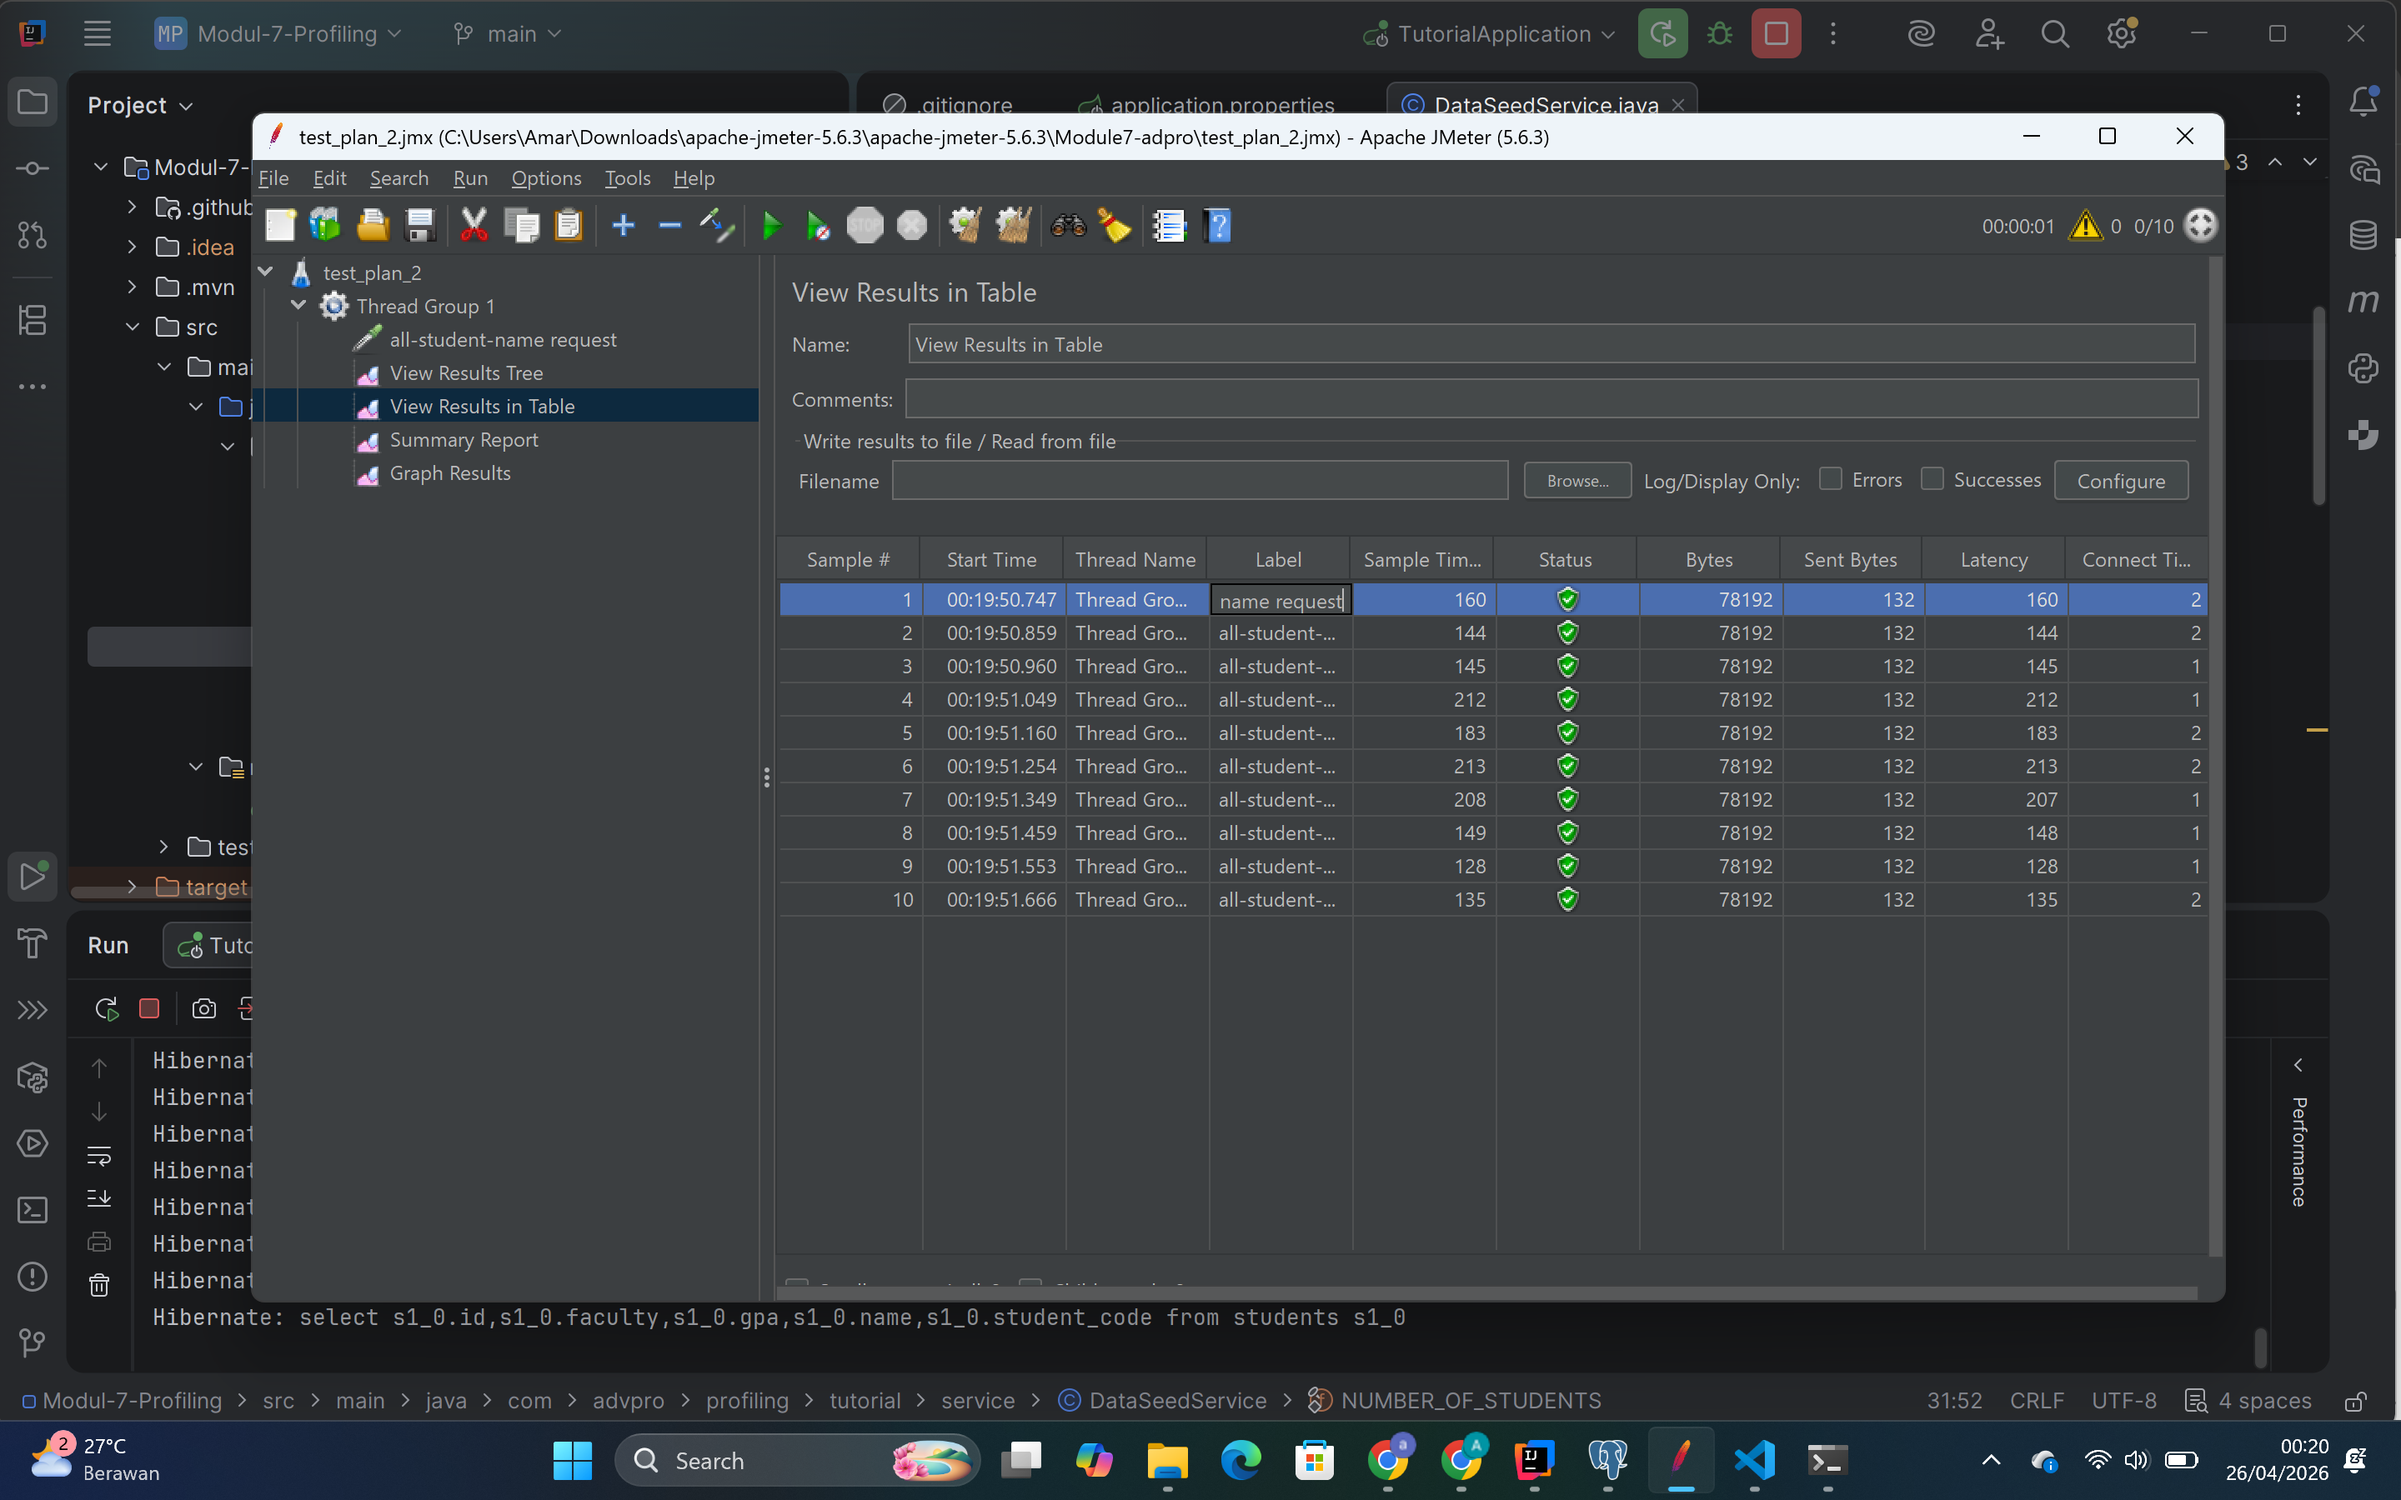
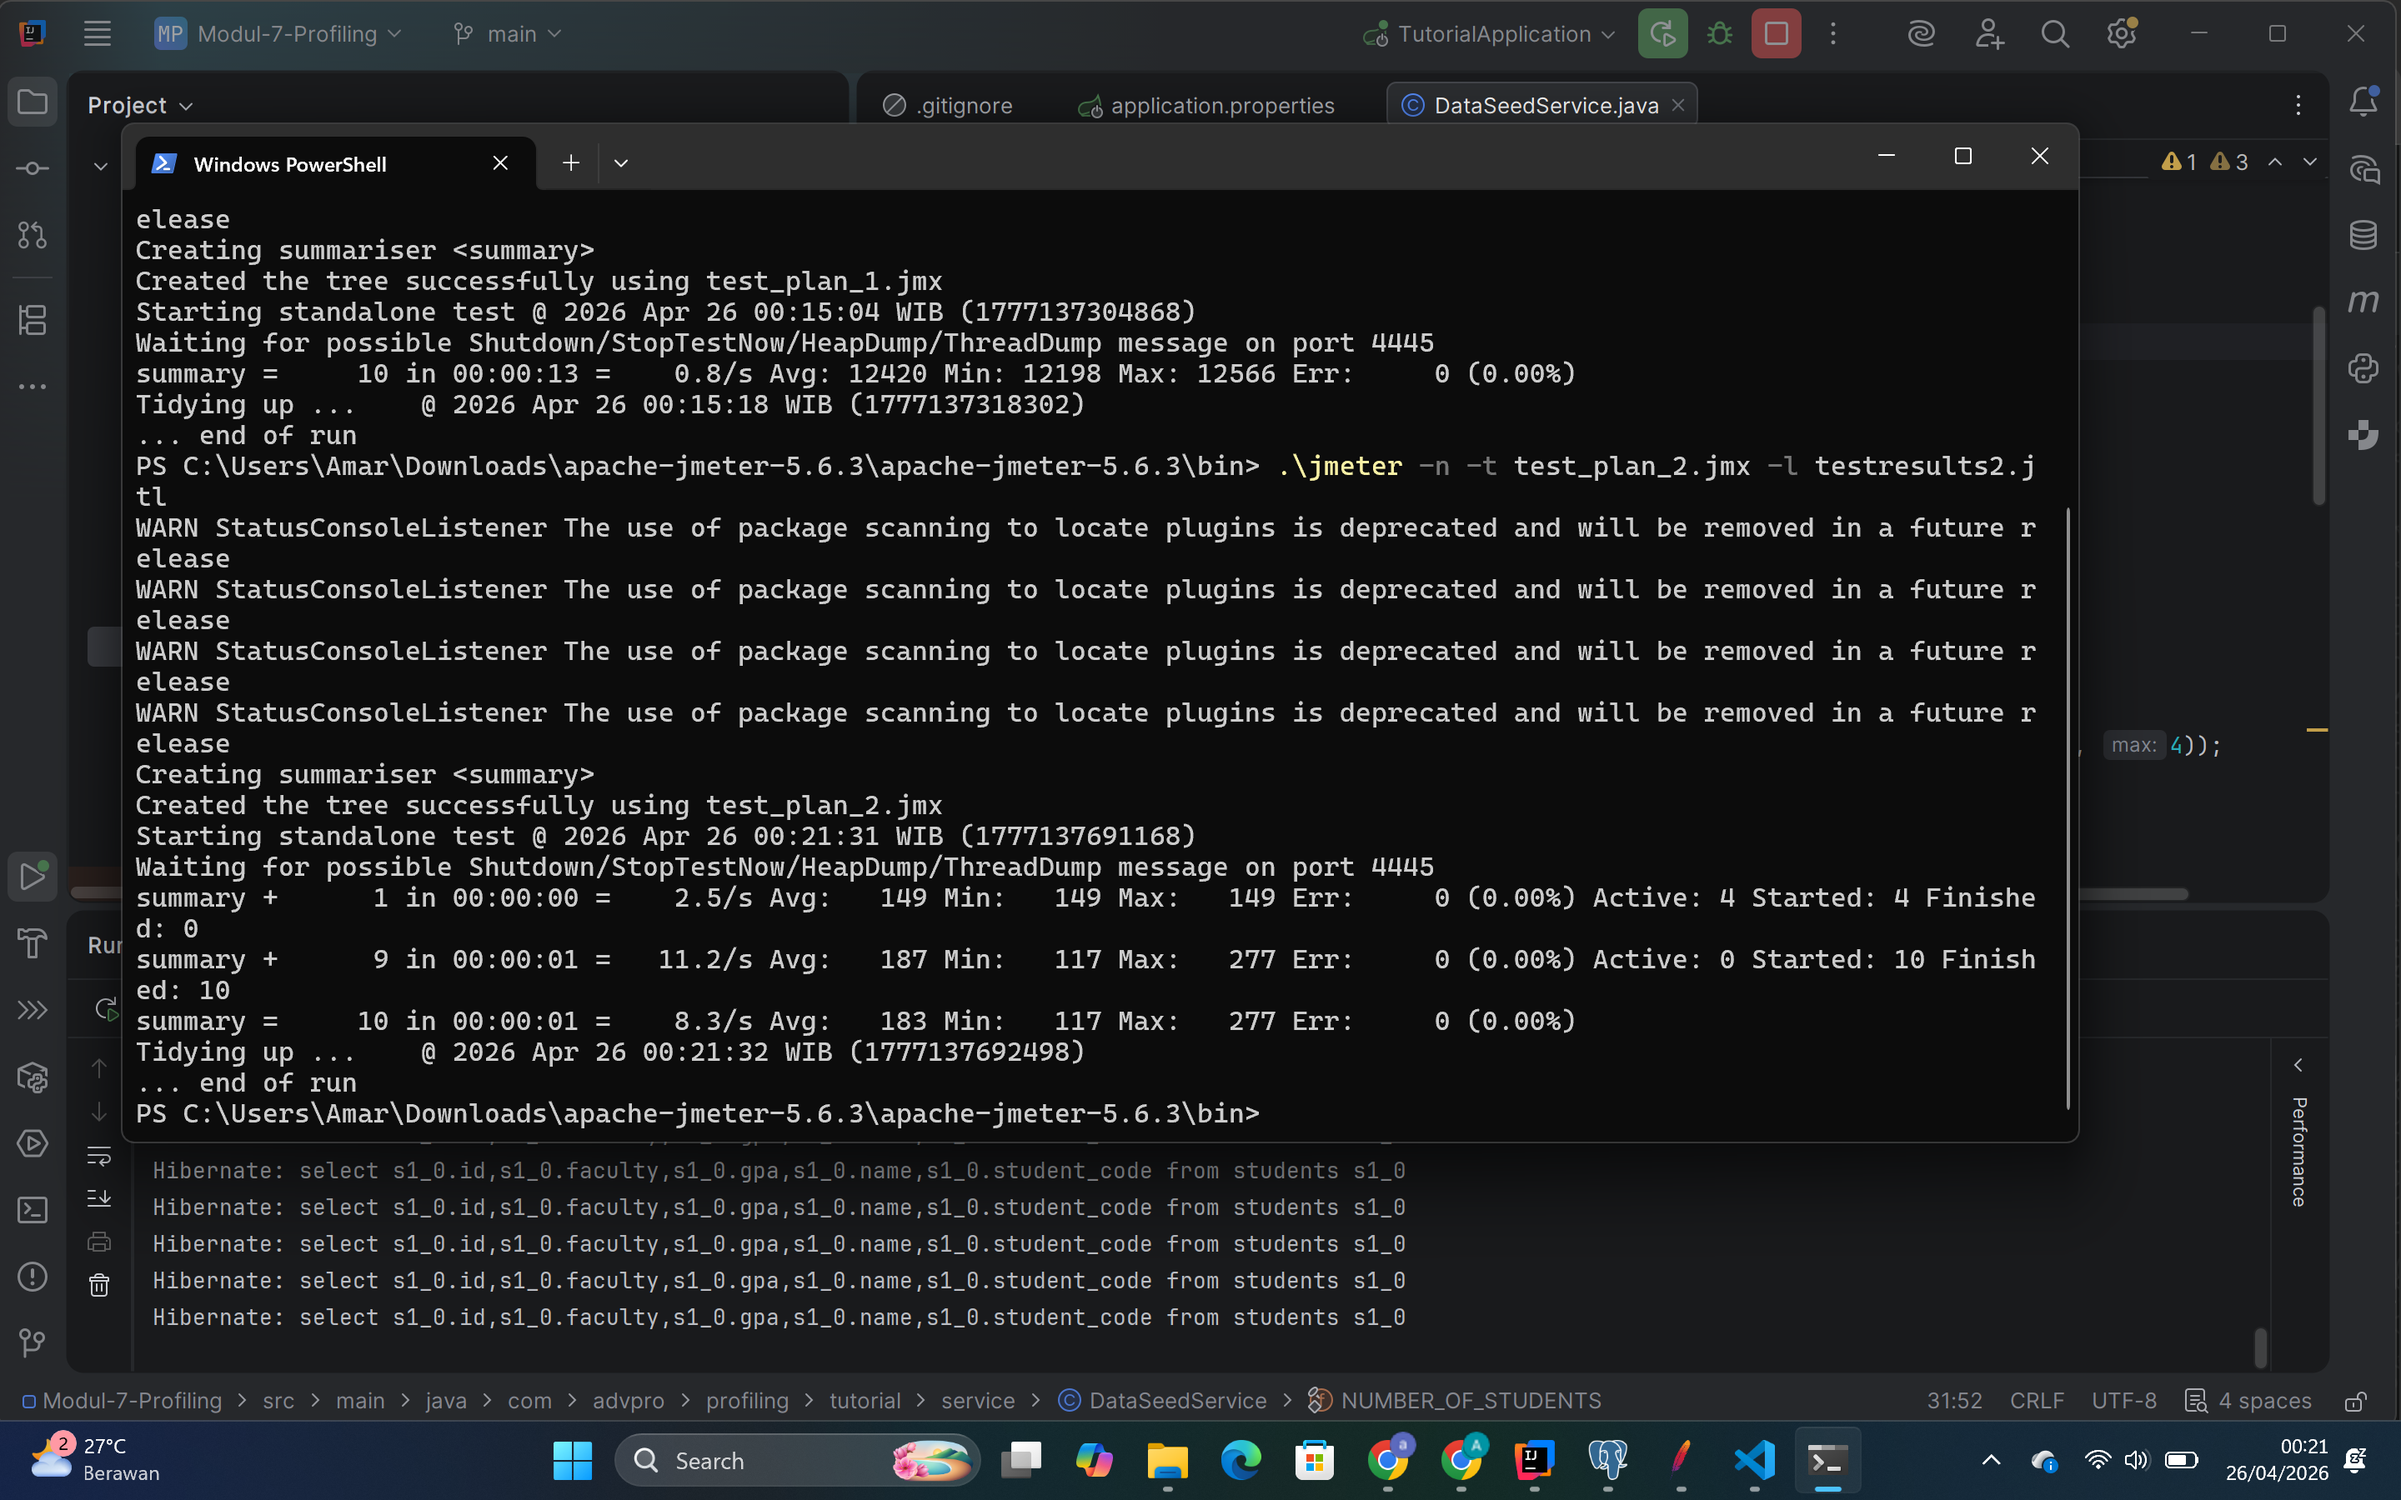
docs: fix screenshots

diff --git a/README.md b/README.md
@@ -3,7 +3,7 @@
 
 ### Endpoint /all-student
 #### 1. JMeter GUI
-![all-student-jmeter](screenshots/all-student-name-cli.png)
+![all-student-jmeter](screenshots/all-student-jmeter.png)
 #### 2. CLI
 ![all-student-cli](screenshots/all-student-cli.png)
 
